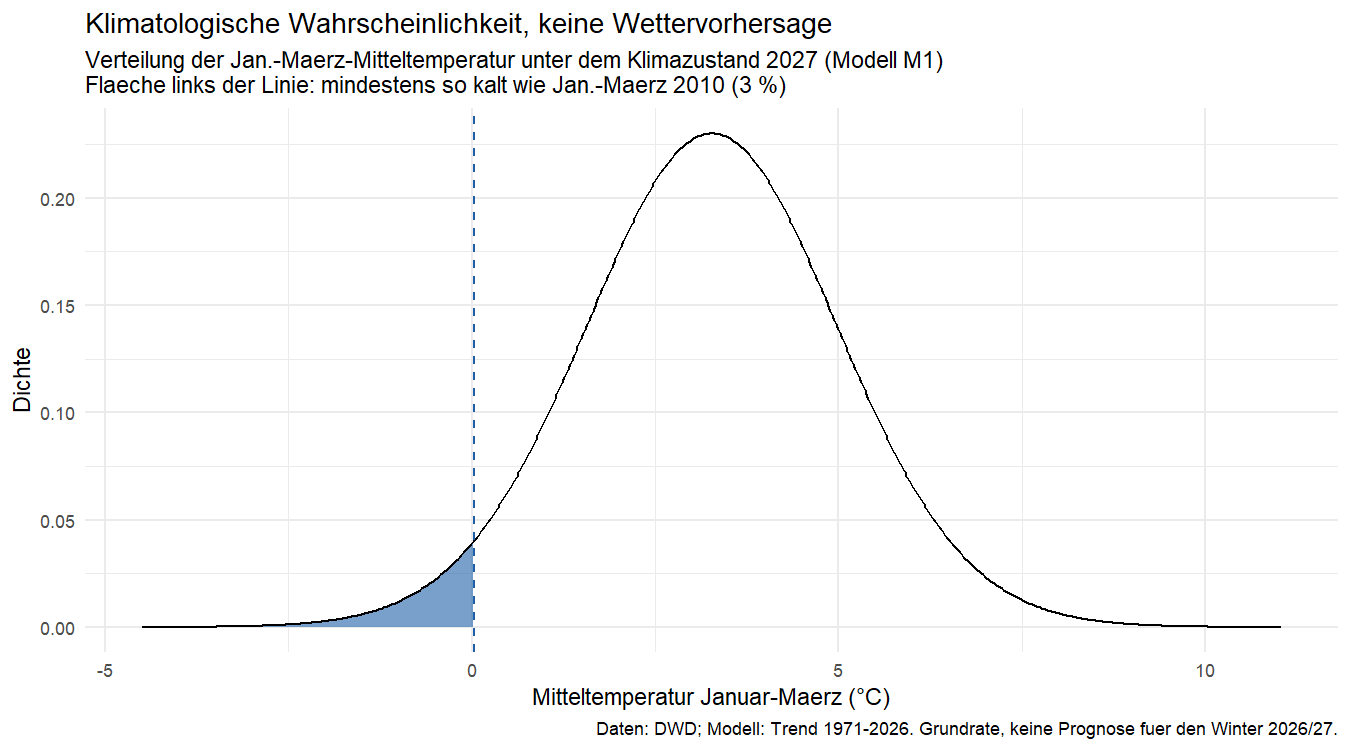
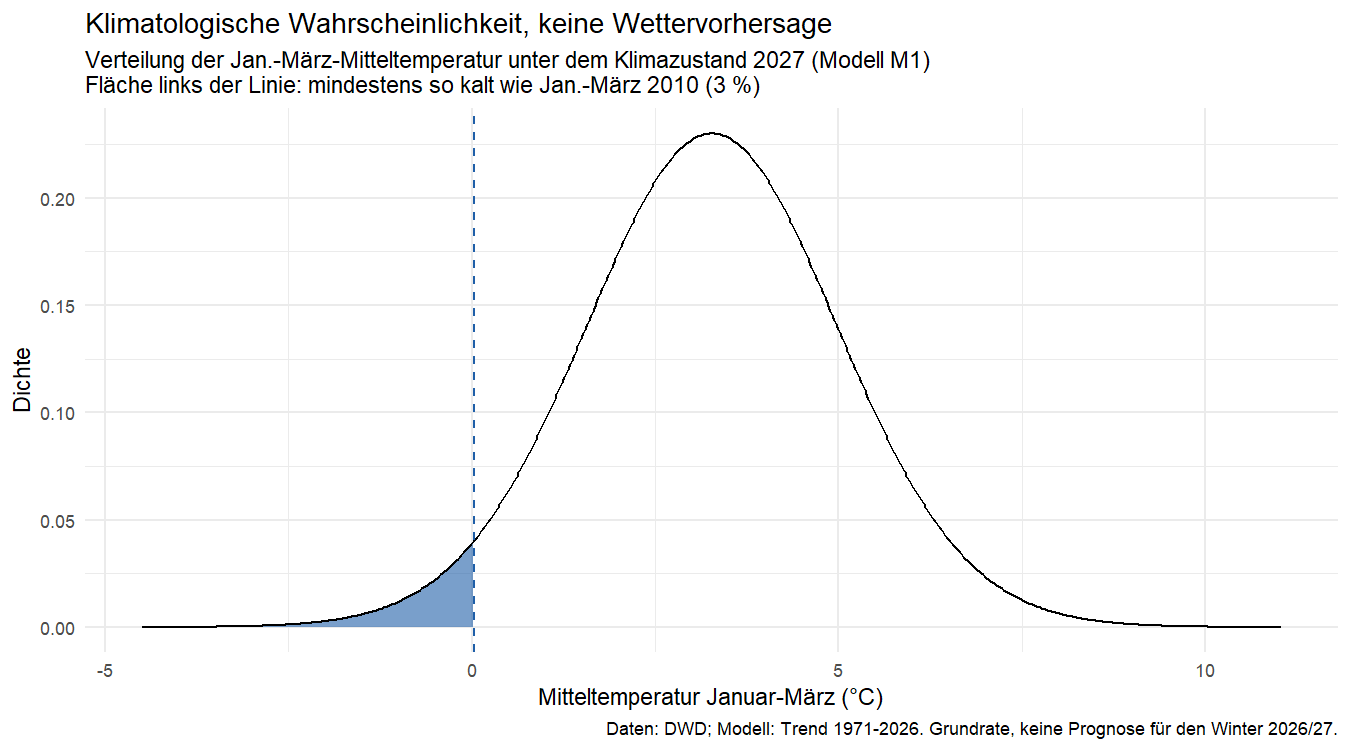
Kaeltewinter wie 2010: Validierungsauflagen V-1 bis V-3, V-5 umgesetzt (Bericht, Grafik-Beschriftung), Lizenz-Nachtrag V-4; Zahlen unveraendert

Changed region(s): [[0.0933, 0.0613, 0.7156, 0.1227], [0.3733, 0.92, 0.8711, 0.9813]]

diff --git a/Analysen/2026-11-kaeltewinter-2010/Analysebericht_kaeltewinter-2010.md b/Analysen/2026-11-kaeltewinter-2010/Analysebericht_kaeltewinter-2010.md
@@ -1,6 +1,9 @@
 # Analysebericht – Kältewinter wie 2010
 
-**Status: vor Validierung.** Dieser Bericht dokumentiert die Umsetzung des SAP und
+**Status: validiert mit Auflagen** (`Validierungsbericht_kaeltewinter-2010.md`,
+23.11.2026: 0 kritisch, 0 hoch, 3 mittel). Auflagen V-1, V-2, V-3 und V-5 durch den
+analyst umgesetzt (siehe Abschnitt 10); fokussierte Nachprüfung durch den
+validator steht aus. Dieser Bericht dokumentiert die Umsetzung des SAP und
 die Rechenergebnisse. Kernaussagen für eine Veröffentlichung werden nach SAP 11
 erst nach dem Validierungsbericht formuliert. Keine Kanaltexte.
 
@@ -15,8 +18,9 @@ erst nach dem Validierungsbericht formuliert. Keine Kanaltexte.
 - **Datenschnitt März 2026:** angewendet direkt nach dem Einlesen. Monatswerte
   ab Oktober 2026 sind in keiner Ausgabe, keiner Grafik und keiner Logzeile
   enthalten; U₂₀₂₇ wurde nicht berechnet.
-- **Abweichungen:** siehe `Abweichungsprotokoll_kaeltewinter-2010.md` (A1–A13;
-  keine betrifft Primärgröße, Fenster, Referenz oder Umschaltregel).
+- **Abweichungen:** siehe `Abweichungsprotokoll_kaeltewinter-2010.md` (A1–A14;
+  keine betrifft Primärgröße, Fenster, Referenz oder Umschaltregel; A14 ist eine
+  reine Darstellungsänderung nach Auflage V-5).
 
 ## 1. Integritäts-Checks (SAP 3.5)
 
@@ -66,8 +70,8 @@ Vergleich T_y ≤ T_ref nach Rundung auf 0,01 °C; 2010 ausgeschlossen.
 
 | Kenngröße | Wert |
 |---|---|
-| b̂₀ / b̂₁ | −73,910 / 0,0381 K pro Jahr (0,38 K pro Dekade) |
-| σ̂ (Divisor n − 2) | 1,67 K |
+| b̂₀ / b̂₁ | −73,910 / 0,0381 K pro Jahr (Modellkoeffizienten; gerundet 0,4 K pro Dekade) |
+| σ̂ (Divisor n − 2) | 1,7 K |
 | h₂₀₂₇ | 0,0734 |
 | ŷ₂₀₂₇ (95-%-KI) | 3,3 °C (2,4 bis 4,2 °C) |
 | ŷ₂₀₁₀ (95-%-KI) | 2,6 °C (2,1 bis 3,2 °C) |
@@ -86,7 +90,7 @@ Außergewöhnlichkeit.
 | Durbin-Watson | DW = 1,547 | 0,031 | nur Information (p < 0,05) |
 | Schiefe g₁ (Momentenschiefe) | −0,505 | – | nur Information |
 | Breusch-Pagan gegen Jahr | BP = 1,015 | 0,314 | nur Information |
-| Residual-SD 1971–1998 / 1999–2026 | 1,86 / 1,44 K | – | beschreibend |
+| Residual-SD 1971–1998 / 1999–2026 | 1,9 / 1,4 K | – | beschreibend |
 | Cook's D > 4/56 | 1974, 1985, 1987 | – | kein Ausschluss |
 
 - ACF/PACF bis Lag 10 und Q-Q-Plot: `output/diagnostik_M1.png`,
@@ -107,6 +111,17 @@ Außergewöhnlichkeit.
 Die Spanne bildet nur die statistische Unsicherheit von M1 ab, nicht die
 Modellwahl (dafür Abschnitt 5).
 
+**Lesehinweis zur Primärzahl (Auflage V-3):** Die 3 % werden nur zusammen mit
+der Unsicherheitsspanne **0,5 % bis 10 %** genannt, nicht als alleinstehende
+Zahl. Die Primärzahl ist modellabhängig: M1 nimmt normalverteilte Residuen an.
+Die Residuen sind linksschief (Schiefe g₁ = −0,51); im Q-Q-Plot liegen die
+kältesten Residuen unter der Normalverteilungslinie. Shapiro-Wilk (p = 0,14)
+löst die Umschaltregel 5.3 nicht aus, M1 bleibt daher nach SAP Primärschätzer.
+Das Normalmodell kann kalte Extreme aber eher knapp schätzen: Die
+Bootstrap-Schätzer, die keine Normalverteilung annehmen (S10, M1-Boot und
+M1-Block-Boot), liefern 5 % statt 3 %. Die Modellabhängigkeit über alle
+Rechenwege zeigt die Spannbreite in Abschnitt 5.
+
 ## 5. Sensitivitäten (SAP 6), Tabelle 2
 
 | Nr. | Variation | Verfahren | P̂ | Spanne 95 % | Wiederkehr (Jahre) | E1 (k/n, Anteil, CP) |
@@ -119,8 +134,8 @@ Modellwahl (dafür Abschnitt 5).
 | S5 | kälteste 30-Tage-Phase | entfallen per SAP v0.2, Grund wie S3 | – | – | – | – |
 | S6 | Trendfenster 1881–2026 | M1 | 9 % | 4–16 % | 11 [6; 25] | – |
 | S7 | Trendfenster 1961–2026 | M1 | 3 % | 0,5–9 % | 30 [11; 185] | – |
-| S8 | LOESS 1881–2026, Niveau 2026 (3,6 °C), SD 1,65 K | Normal-prädiktiv, Residuen-Bootstrap | 2 % | 0,1–12 % | 65 [9; 905] | – |
-| S9a | ohne Trend, 1997–2026, t-prädiktiv (Mittel 2,7 °C, SD 1,47 K) | Parametersimulation (A4, Post-hoc) | 4 % | 0,8–11 % | 25 [9; 125] | – |
+| S8 | LOESS 1881–2026, Niveau 2026 (3,6 °C), SD 1,6 K | Normal-prädiktiv, Residuen-Bootstrap | 2 % | 0,1–12 % | 65 [9; 905] | – |
+| S9a | ohne Trend, 1997–2026, t-prädiktiv (Mittel 2,7 °C, SD 1,5 K) | Parametersimulation (A4, Post-hoc) | 4 % | 0,8–11 % | 25 [9; 125] | – |
 | S9b | ohne Trend, 1997–2026, empirischer Anteil inkl. 2010 (3/30: 2006, 2010, 2013) | Clopper-Pearson (A4, Post-hoc) | 10 % | 2–27 % | 10 [4; 45] | – |
 | S10 | M1-AR (φ̂ = 0,22) | GLS AR(1), ML | 3 % | 0,4–9 % | 30 [11; 255] | – |
 | S10 | M1-Boot | Residuen-Bootstrap | 5 % | 0–14 % | 19 [7; nicht begrenzt] | – |
@@ -136,6 +151,18 @@ SAP 11 gerundet (ganze Jahre, ab 20 auf 5 Jahre).
 **Spannbreite (SAP 6):** Je nach Rechenweg liegt P̂ zwischen **0,4 % (S14)** und
 **10 % (S9b)** (Auslegung A11: alle Zeilen einschließlich S9b; ohne S9b wäre das
 Maximum 9 % bei S6).
+
+**Offenlegung zu S9b (Auflage V-2):** Das Maximum der Spannbreite (10 %) stammt
+genau aus S9b. Der empirische Anteil in S9b zählt das Referenzjahr 2010 selbst
+mit (3/30: 2006, 2010, 2013). 2010 erfüllt „mindestens so kalt wie 2010“
+zwangsläufig. In E1 (2.1) und bei S1/S2 (A6) wird das Referenzjahr dagegen
+ausgeschlossen. Ohne 2010 ergäbe der empirische Anteil 1997–2026 **2/29 = 7 %**
+(dieser Wert steht bereits in Tabelle 1, Teilzeitraum 1997–2026). Die Auslegung
+A4(b) wurde nicht geändert und nicht neu gerechnet; Zahlen und Tabellen
+bleiben unverändert. Ob die Auslegung A4(b) bestehen bleibt, entscheidet
+Daniel Saure (**offener Punkt**, siehe Abschnitt 10). Bis dahin gilt die
+Spannbreite 0,4 % bis 10 % wie vorab festgelegt; der Wert 7 % ist eine
+Offenlegung, keine alternative Spannbreite.
 
 **S14 im Detail (SAP 2.5):** Rang von T_ref^S14 unter 146 Werten: 22. Jahre mit
 U_t ≤ T_ref^S14: 1886 1888 1889 1891 1893 1895 1909 1917 1922 1924 1929 1940
@@ -173,8 +200,52 @@ Daten: `output/owid_vergleich_jfm.csv`.
 - **Kombinationszeitraum (2.5, 9):** Das INES-Szenario kombiniert November–
   Dezember 2010 mit Januar–März 2010; so ist es nie als ein zusammenhängender
   Winter aufgetreten.
-- Limitationen nach SAP 9 gelten unverändert (Monatsmittel glätten kurze
-  Kältewellen; keine Tagesdaten-Sensitivitäten).
+
+### 7.1 Interpretationsrahmen (SAP 8; ergänzt nach Auflage V-1)
+
+- **Kontext INES:** INES vertritt Speicherbetreiber. Das wird hier sachlich als
+  Kontext genannt; die Analyse schreibt INES keine Motive zu und bewertet weder
+  INES noch Bundesregierung noch Bundesnetzagentur.
+- **Kälteszenario ist methodisch üblich:** Ein Kälteszenario in einer
+  Risikorechnung ist methodisch üblich, unabhängig davon, wie wahrscheinlich es
+  ist. Eine niedrige oder hohe Wahrscheinlichkeit P̂₂₀₂₇ ist deshalb kein Urteil
+  über die Szenariowahl von INES.
+- **Kombinationscharakter ist keine Kritik:** Dass das INES-Szenario
+  November–Dezember 2010 mit Januar–März 2010 kombiniert (2.5, S14), wird
+  sachlich beschrieben, nicht als Kritik.
+- **Auswahleffekt:** Das Referenzjahr wurde wegen seiner Kälte ausgewählt; Rang
+  und Residuum von 2010 sind eine Beschreibung, keine unabhängige Bestätigung
+  seiner Außergewöhnlichkeit (siehe auch 4.1).
+
+### 7.2 Limitationen (SAP 9, einzeln; ergänzt nach Auflage V-1)
+
+1. **Monatsmittel glätten kurze Kältewellen**, die für die Gasspitzenlast
+   entscheidend sind. Die Tagesdaten-Sensitivitäten (Gradtage, Kältephasen,
+   Extremwertansatz; S3–S5, S11) entfallen mangels täglichem
+   DWD-Gebietsmittel und wegen des Aufwands und des späteren Beginns (1951) der
+   HYRAS-Raster (3.2). Kurze Kältewellen werden daher nicht abgebildet.
+2. **Weniger Stationen vor 1951:** Die DWD-Gebietsmittel vor 1951 beruhen auf
+   weniger Stationen; die Unsicherheit früher Werte ist größer, wird aber nicht
+   modelliert. Das betrifft vor allem E1 (1881–2026) und S6/S8.
+3. **Begrenzte Grundlage für die linke Flanke:** E2 beruht mit n = 56
+   (1971–2026) auf einer begrenzten Grundlage für Aussagen über die kalte
+   Flanke der Verteilung; die Spanne ist deshalb Teil der Kernaussage (siehe
+   auch Lesehinweis in 4.3).
+4. **Referenzjahr als Punktdefinition:** Ein einzelnes Referenzjahr ist eine
+   Punktdefinition von „Kälte“; die Wahl stammt von INES und wurde nicht
+   optimiert.
+5. **Kombiniertes Szenario:** Das INES-Szenario kombiniert November–Dezember
+   2010 mit Januar–März 2010 (3.3). Die Primärgröße (JFM) bildet nur den
+   zweiten Teil ab; S14 bildet die Kombination ab, vergleicht sie aber mit
+   zusammenhängenden historischen Zeiträumen. Beides ist eine Näherung an ein
+   Szenario, das so nie als ein Winter aufgetreten ist.
+6. **Keine Aussage zum laufenden Winter:** Die Analyse sagt nichts zu den
+   Monaten Oktober–Dezember 2026 und nichts darüber, wie der Winter 2026/27
+   bisher verlaufen ist (Datenschnitt März 2026), auch nicht in S14.
+7. **INES-Einordnung nicht vom sap-autor geprüft:** Die INES-Primärquelle
+   wurde von der Top-Level-Session gesichert und in SAP 3.3 eingetragen; der
+   sap-autor hat die Dokumente nicht selbst gelesen. Die INES-Einordnung in
+   SAP 3.3 ist als „nicht vom sap-autor geprüft“ gekennzeichnet.
 
 ## 8. Grafiken
 
@@ -192,3 +263,42 @@ Daten: `output/owid_vergleich_jfm.csv`.
 ohne Anhang an `run_log.txt` mit Umgebungsvariable `KW_NO_RUNLOG=1`.
 Paketversionen: `output/session_info.txt`. Reihenfolge der Zufallsziehungen im
 Skriptkopf (SAP 10).
+
+## 10. Umsetzung der Validierungsauflagen (23.11.2026)
+
+Grundlage: `Validierungsbericht_kaeltewinter-2010.md` (23.11.2026), Abschnitt 7.
+Freigabe der Umsetzung: Daniel Saure im Chat am 23.11.2026, „Ja, umsetzen“, auf
+die Frage der Top-Level-Session, ob V-1 bis V-5 umgesetzt werden (S9b nur
+offengelegt). Umsetzung durch den analyst-Subagenten. SAP v1.0 final bleibt
+maßgeblich und wurde nicht geändert. Keine Zahl, keine Tabelle und keine
+Ergebnisdatei wurde neu gerechnet oder verändert.
+
+| Auflage | Umsetzung | Ort |
+|---|---|---|
+| V-1 (M-1) | SAP-8-Pflichtinhalte ergänzt (INES vertritt Speicherbetreiber, sachlich ohne Motivzuschreibung; Kälteszenario in Risikorechnung methodisch üblich; Kombinationscharakter keine Kritik; Auswahleffekt). Pauschalverweis „Limitationen gelten unverändert“ ersetzt durch alle sieben Limitationen aus SAP 9 einzeln. | Abschnitt 7.1, 7.2 |
+| V-2 (M-2) | Offengelegt: S9b zählt 2010 selbst mit; ohne 2010 2/29 = 7 % (Tabelle 1); S9b bildet das Maximum der Spannbreite. Nicht neu gerechnet, Tabelle 2 und Spannbreite unverändert. | Abschnitt 5, nach dem Spannbreiten-Satz; Abweichungsprotokoll A4/A11 |
+| V-3 (M-3) | Lesehinweis: 3 % nur mit Spanne 0,5 % bis 10 %; Modellabhängigkeit (Schiefe −0,51, kalte Residuen unter der Normallinie, Bootstrap-Schätzer 5 %). Primärschätzer M1 unverändert. | Abschnitt 4.3 |
+| V-4 (G-1) | nicht durch den analyst bearbeitet (Adressat Top-Level-Session; Nachtrag Lizenz steht in `run_log.txt`) | – |
+| V-5 (G-3) | Temperaturangaben auf 0,1 °C bzw. 0,1 K: σ̂ 1,67 → 1,7 K; Residual-SD 1,86 / 1,44 → 1,9 / 1,4 K; S8 SD 1,65 → 1,6 K (ungerundet 1,649); S9a SD 1,47 → 1,5 K; Trend 0,38 → 0,4 K pro Dekade. | Abschnitte 4.1, 4.2, 5 |
+| V-5 (G-5) | Umlaute in Grafik 1 und Grafik 2 korrigiert (März, wärmer, Fläche, Verlängerung, für). Nur Beschriftungsstrings im Skript geändert (A14), Skript neu ausgeführt (Exit-Code 0). sha256 aller Dateien in `output/` vorher/nachher in `run_log.txt`: alle Tabellen, `ergebnisse.json`, alle CSV, `diagnostik_M1.png` und `session_info.txt` bitidentisch; geändert nur `grafik1_zeitreihe_jfm.png` und `grafik2_praediktive_verteilung_2027.png`. | `kaeltewinter-2010.R`, `output/`, `run_log.txt` |
+
+**Bewusst nicht auf 0,1 gerundet (Auslegung zu V-5, zur Nachprüfung durch den
+validator):** (a) die Spalte „Wert (ungerundet)“ in Abschnitt 2, die ausdrücklich
+als ungerundet gekennzeichnet ist und neben der gerundeten Spalte steht; (b) der
+Vergleich 1883 (0,0336 °C) mit 2010 (0,0339 °C) in Abschnitt 3, weil er den
+Gleichstand nach 0,01-°C-Rundung erklärt; (c) die Differenzen im Integritäts-Check
+3.5-2 (max. 0,19 K bzw. 0,003 K), weil sie gegen die Toleranz 0,05 K aus SAP 3.5
+geprüft werden und bei 0,1-Rundung nicht mehr aussagekräftig wären; (d) die
+Modellkoeffizienten b̂₀/b̂₁ in 4.1 (Parameter, keine Temperaturangabe).
+
+**Offene Punkte für Daniel Saure:**
+
+1. **S9b / Auslegung A4(b) (V-2):** Entscheidung, ob der empirische Anteil
+   1997–2026 in S9b das Referenzjahr 2010 weiter mitzählt (3/30 = 10 %, derzeit,
+   bildet das Maximum der Spannbreite) oder nicht (2/29 = 7 %). Jede Änderung
+   wäre Post-hoc zu kennzeichnen, beide Varianten wären zu berichten
+   (Validierungsbericht V-2).
+2. **V-6** (Bestätigung A1b-Wortlaut „Du lädst sie“ und A9 „Dokumentation
+   genügt“) liegt beim Menschen und ist hier nicht bearbeitet.
+3. Fokussierte Nachprüfung dieser Umsetzung durch den validator als Nachtrag
+   zum Validierungsbericht (CLAUDE.md, Dokumentationspflicht) steht aus.

diff --git a/Analysen/2026-11-kaeltewinter-2010/Abweichungsprotokoll_kaeltewinter-2010.md b/Analysen/2026-11-kaeltewinter-2010/Abweichungsprotokoll_kaeltewinter-2010.md
@@ -27,6 +27,7 @@ Abweichung wurde nach der Höhe eines Ergebnisses gewählt.
 | A11 | Auslegung | 6 (Spannbreiten-Aussage) | Min./Max. von P̂ über alle E2-Sensitivitätszeilen einschließlich S9a, S9b und aller drei S10-Schätzer. | SAP: „über alle durchgeführten E2-Sensitivitäten“. Ohne S9b läge das Maximum bei S6 (9 %). | Spannbreite 0,4 % (S14) bis 10 % (S9b) |
 | A12 | gering | 5.2 (Linearität) | Glättung in der Grafik „Residuen gegen angepasste Werte“ mit `lowess` statt `loess`. | Nur grafisch, keine Rechnung. | keine |
 | A13 | Hinweis | 10 | Pakete `binom` und `tseries` nicht installiert; verwendet wurden die im SAP zugelassenen Alternativen `stats::binom.test` (Clopper-Pearson) und eine eigene, im Skript dokumentierte Moving-Block-Bootstrap-Funktion (`mbb_index`, Blocklänge 3, Startpunkte gleichverteilt auf 1…54, 19 Blöcke, auf 56 gekürzt). | Keine Abweichung, nur Dokumentation. | keine |
+| A14 | Post-hoc (Darstellung, Validierungsauflage V-5, 23.11.2026) | 11 | Umlaute in den Beschriftungen von Grafik 1 und Grafik 2 korrigiert (Maerz → März, waermer → wärmer, Flaeche → Fläche, Verlaengerung → Verlängerung, fuer → für). Nur Beschriftungsstrings und Kommentare in `kaeltewinter-2010.R` geändert; Skript neu ausgeführt (Exit-Code 0). | Validierungsbericht G-5/V-5; Freigabe Daniel Saure im Chat 23.11.2026 („Ja, umsetzen“). | keine auf Ergebnisse: sha256 vorher/nachher in `run_log.txt`; alle Tabellen, `ergebnisse.json`, alle CSV, `diagnostik_M1.png`, `session_info.txt` bitidentisch; geändert nur die PNG-Dateien von Grafik 1 und 2 |
 
 ## Offene Punkte / Rückfragen an Mensch
 
@@ -37,3 +38,23 @@ Abweichung wurde nach der Höhe eines Ergebnisses gewählt.
    keinen Netzzugriff auf die DWD-Seite für diese Prüfung genutzt.
 3. Keine SAP-Vorgabe war technisch nicht umsetzbar. Keine „Abweichung vom SAP –
    Rückfrage an Mensch“ im Sinne einer nicht umsetzbaren Vorgabe.
+
+## Nachtrag: Umsetzung der Validierungsauflagen (23.11.2026)
+
+*Durch: Claude (analyst-Subagent). Grundlage: `Validierungsbericht_kaeltewinter-2010.md`,
+Abschnitt 7. Freigabe: Daniel Saure im Chat 23.11.2026, „Ja, umsetzen“ (V-1 bis V-5,
+S9b nur offengelegt). SAP v1.0 final unverändert. Die Tabelle oben (A1–A13) bleibt im
+ursprünglichen Wortlaut stehen; neu ist nur A14.*
+
+| Auflage | Art | Änderung | Datei(en) | Wirkung auf Zahlen |
+|---|---|---|---|---|
+| V-1 | Bericht (Text) | SAP-8-Pflichtinhalte und alle sieben SAP-9-Limitationen einzeln ausgeschrieben | Analysebericht, Abschnitt 7.1/7.2 | keine |
+| V-2 | Bericht (Offenlegung zu A4(b)/A11) | Offengelegt: S9b zählt das Referenzjahr 2010 selbst mit (3/30 = 10 %); ohne 2010 2/29 = 7 % (Tabelle 1, Teilzeitraum 1997–2026); S9b bildet das Maximum der Spannbreite 0,4 % bis 10 %. **Nicht neu gerechnet**, Tabelle 2, `ergebnisse.json` und Spannbreite unverändert. Auslegung A4(b) bleibt bis zur Entscheidung durch Daniel Saure bestehen. | Analysebericht, Abschnitt 5 und 10 | keine |
+| V-3 | Bericht (Text) | Lesehinweis: 3 % nur mit Spanne 0,5 % bis 10 %; Modellabhängigkeit (Schiefe −0,51, Bootstrap-Schätzer 5 %). Primärschätzer M1 unverändert (Regel 5.3). | Analysebericht, Abschnitt 4.3 | keine |
+| V-4 | – | nicht vom analyst bearbeitet (Adressat Top-Level-Session). Stand 23.11.2026: Nachtrag „Lizenz (V-4)“ der Top-Level-Session steht in `run_log.txt`; damit betrifft offener Punkt 2 oben diesen Nachtrag (vom analyst nicht geprüft). | `run_log.txt` (nicht vom analyst) | keine |
+| V-5 | Bericht (Rundung) | Temperaturangaben auf 0,1: σ̂ 1,7 K; Residual-SD 1,9 / 1,4 K; S8 SD 1,6 K; S9a SD 1,5 K; Trend 0,4 K pro Dekade. Ausnahmen mit Begründung im Analysebericht, Abschnitt 10. | Analysebericht, 4.1, 4.2, 5 | keine |
+| V-5 | Skript (Darstellung), A14 | Umlaute in Grafik 1 und 2; Neulauf; sha256-Vergleich aller `output/`-Dateien in `run_log.txt` | `kaeltewinter-2010.R`, `output/grafik1_zeitreihe_jfm.png`, `output/grafik2_praediktive_verteilung_2027.png`, `run_log.txt` | keine (Ergebnisdateien bitidentisch) |
+
+**Neuer offener Punkt (V-2):** Entscheidung Daniel Saure, ob die Auslegung A4(b)
+(empirischer Anteil S9b einschließlich 2010) bestehen bleibt. Jede Änderung wäre
+Post-hoc zu kennzeichnen; beide Varianten wären zu berichten.
